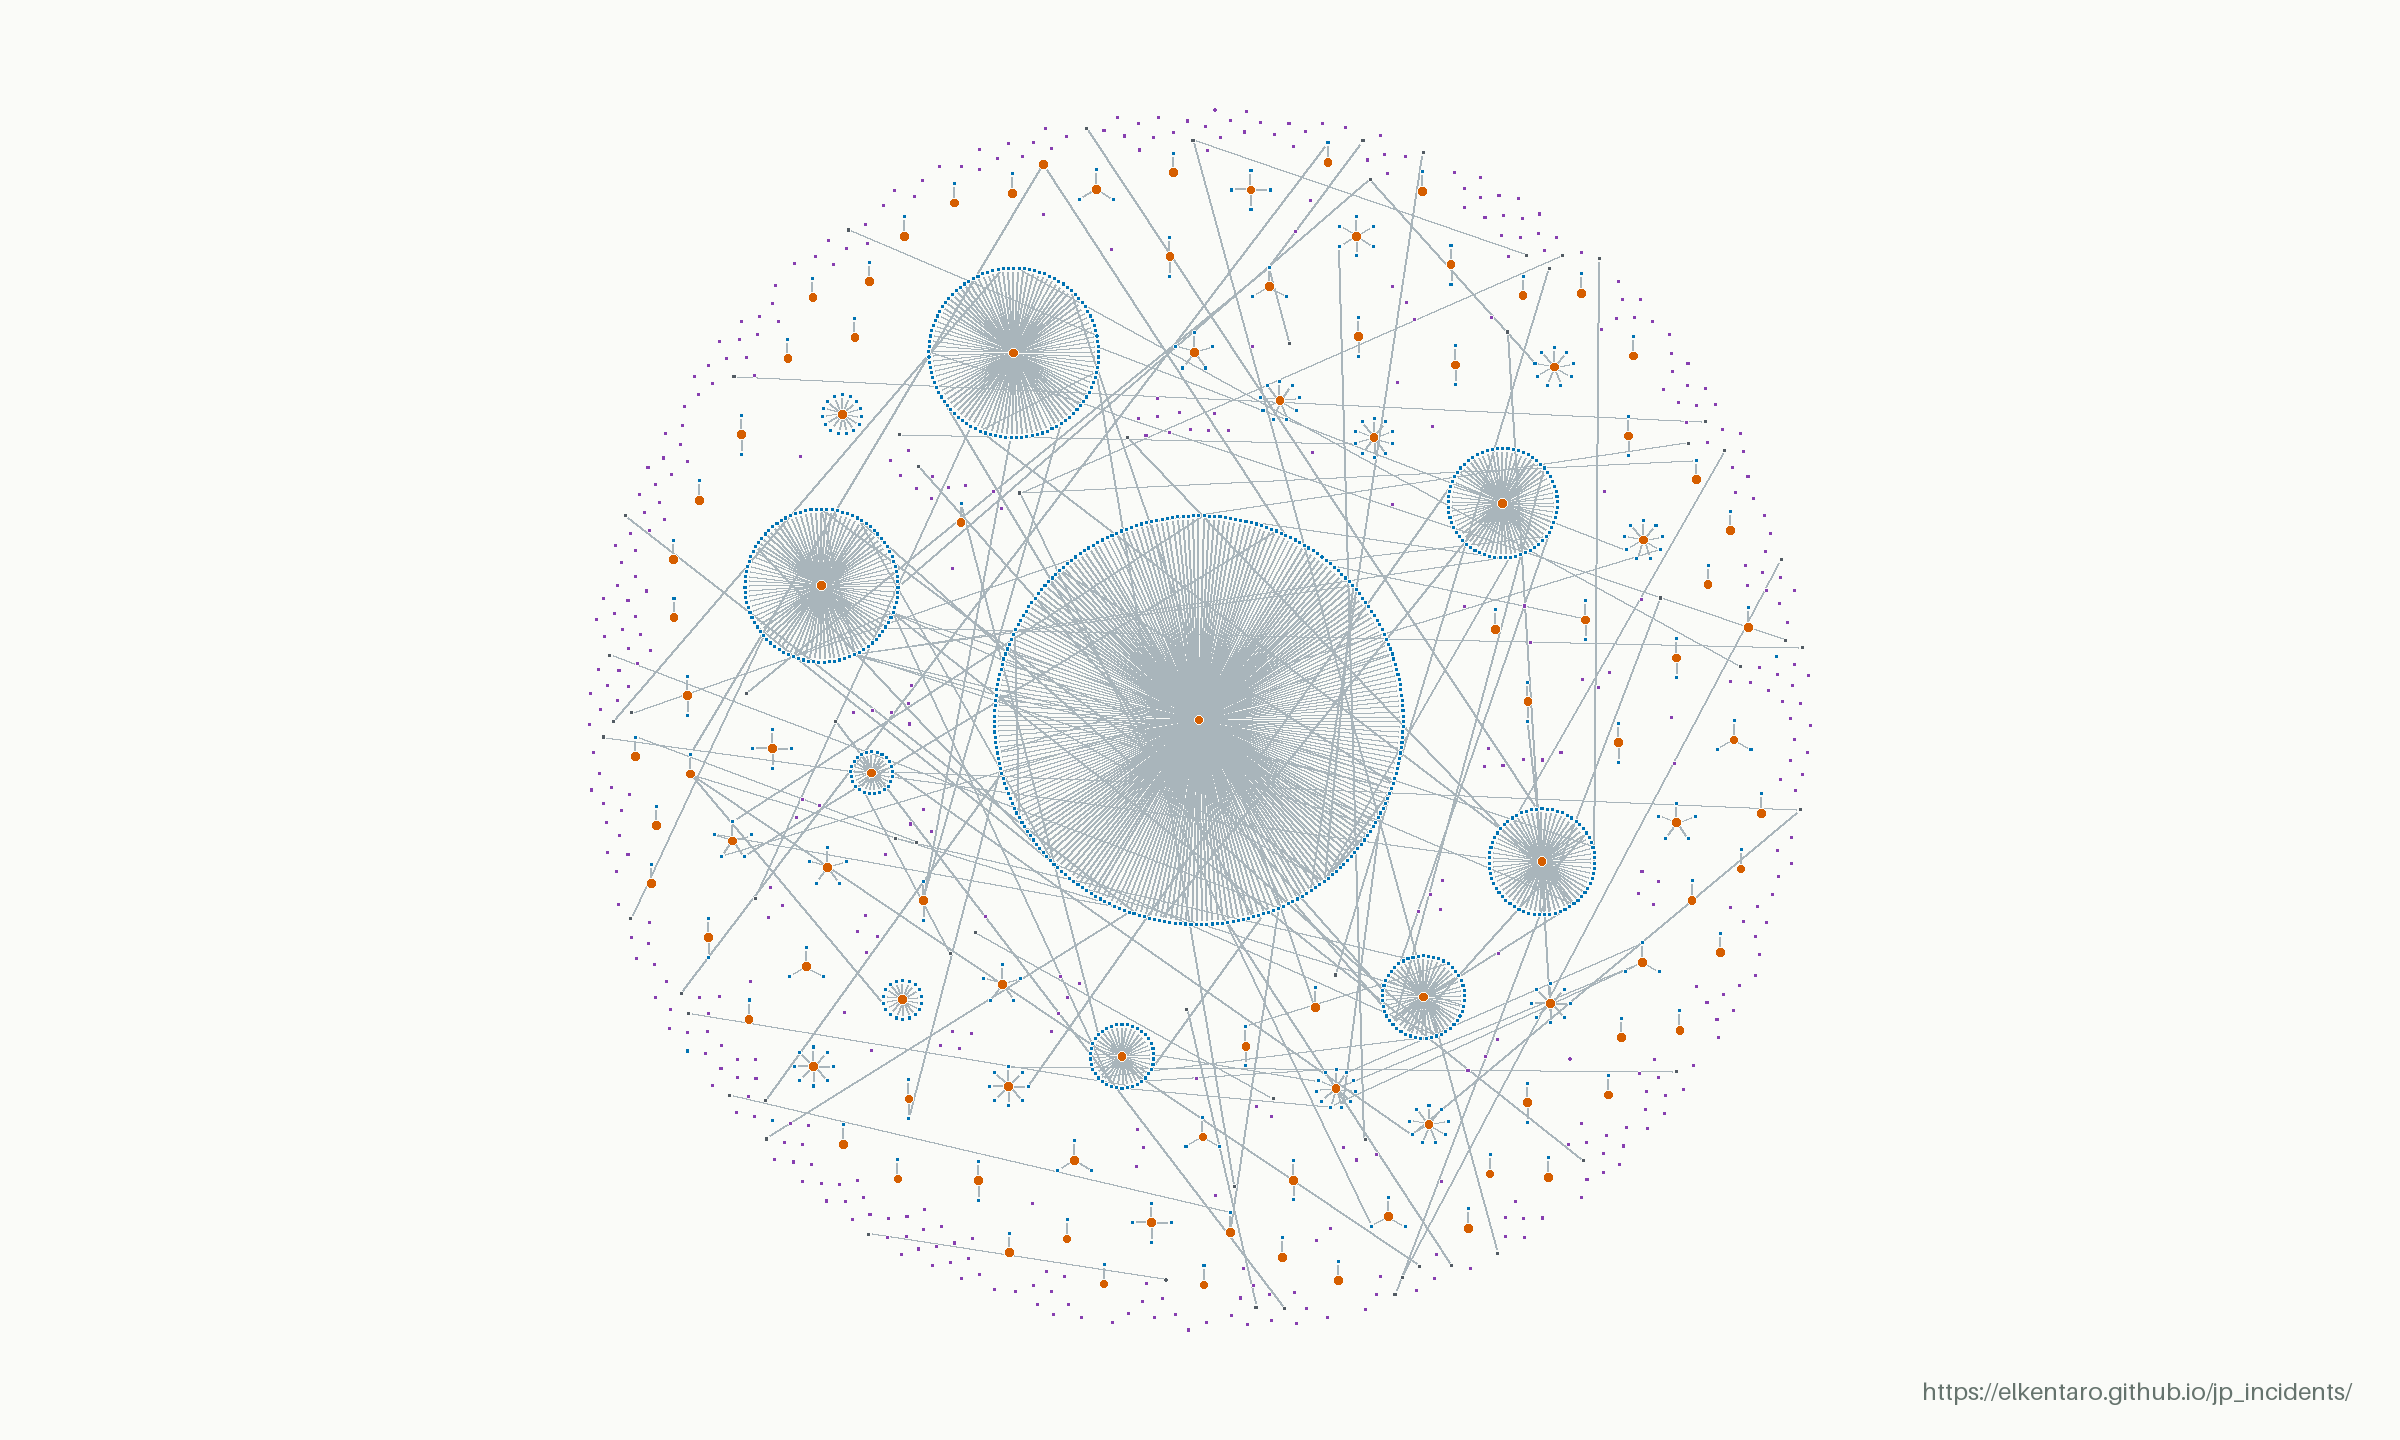
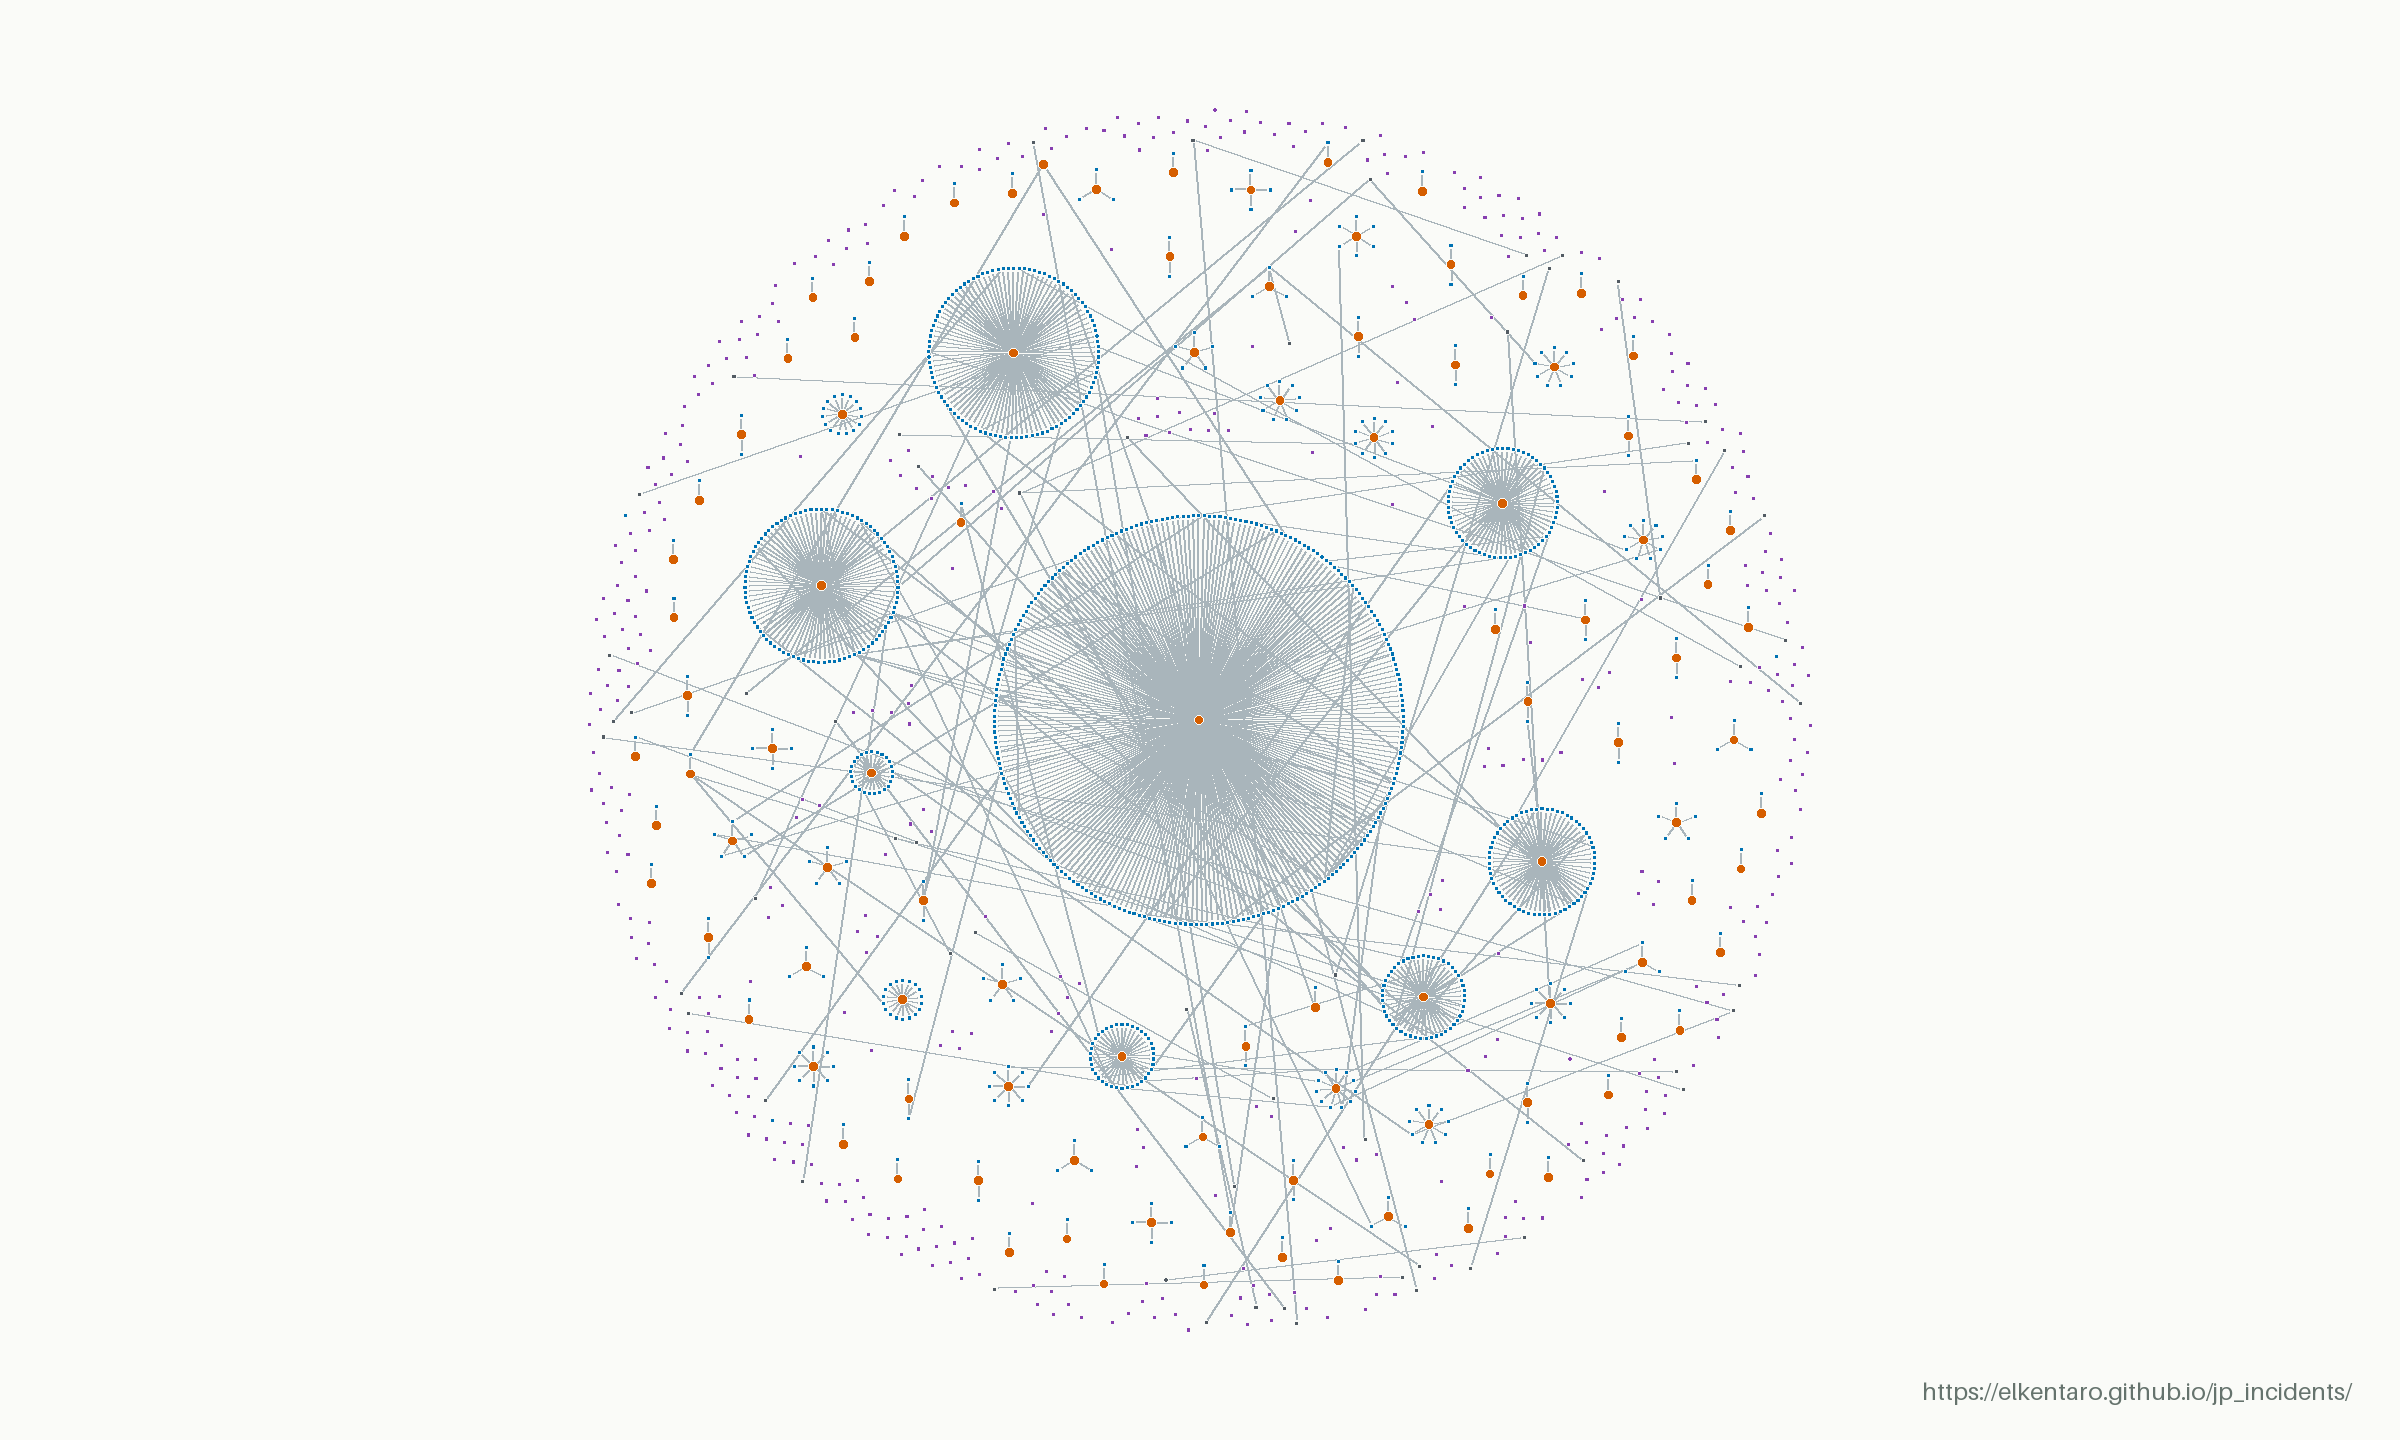
Update incident data (2026-11-22 11:17 UTC)

diff --git a/linkage.html b/linkage.html
@@ -32,15 +32,15 @@
     </section>
     <section class="direct-summary" aria-labelledby="direct-title">
       <dl class="direct-stats">
-        <div class="direct-total"><dt id="direct-title" data-copy="direct">Direct incidents</dt><dd id="direct-count">605</dd></div>
+        <div class="direct-total"><dt id="direct-title" data-copy="direct">Direct incidents</dt><dd id="direct-count">606</dd></div>
         <div><dt data-copy="directUpstream">Upstream incidents</dt><dd id="upstream-count">102</dd></div>
-        <div><dt data-copy="directStandalone">Standalone incidents</dt><dd id="standalone-count">503</dd></div>
+        <div><dt data-copy="directStandalone">Standalone incidents</dt><dd id="standalone-count">504</dd></div>
       </dl>
       <p class="direct-excluded"><strong id="downstream-count">942</strong> <span data-copy="directExcluded">downstream records excluded, including incidents with both roles.</span></p>
       <p class="direct-definition" data-copy="directDefinition">Direct incidents = upstream + standalone, based on recorded causal links. Standalone incidents have no upstream or downstream causal links, but may have other links, such as separate events at the same organization.</p>
     </section>
     <dl class="map-stats">
-      <div><dt data-copy="total">Incidents in snapshot</dt><dd>1547</dd></div>
+      <div><dt data-copy="total">Incidents in snapshot</dt><dd>1548</dd></div>
       <div><dt data-copy="linked">With recorded connections</dt><dd>1101</dd></div>
       <div><dt data-copy="links">Recorded connections</dt><dd>1062</dd></div>
       <div><dt data-copy="networks">Connected networks</dt><dd>86</dd></div>
@@ -50,13 +50,13 @@
         <img src="data/linkage-map.png" width="2400" height="1440" alt="Anonymized incident map. Orange upstream hubs connect to blue downstream incidents; purple unlinked incidents appear throughout the same map without connecting lines." data-copy-alt="alt">
       </div>
       <figcaption>
-        <div class="map-caption-meta"><span><span data-copy="updated">Last updated</span>: <time datetime="2026-11-22T02:15:52.537504+00:00">2026-11-22 02:15 UTC</time></span><a href="data/linkage-map.png" target="_blank" rel="noopener" data-copy="open">Open full-resolution image ↗</a></div>
+        <div class="map-caption-meta"><span><span data-copy="updated">Last updated</span>: <time datetime="2026-11-22T11:16:04.042744+00:00">2026-11-22 11:16 UTC</time></span><a href="data/linkage-map.png" target="_blank" rel="noopener" data-copy="open">Open full-resolution image ↗</a></div>
         <div class="map-key-section">
           <strong id="map-key-title" data-copy="key">Key</strong>
           <ul class="map-key" aria-labelledby="map-key-title">
             <li><span class="key-dot upstream" aria-hidden="true"></span><span data-copy="keyUpstream">Upstream</span></li>
             <li><span class="key-dot downstream" aria-hidden="true"></span><span data-copy="keyDownstream">Downstream</span></li>
-            <li><span class="key-dot standalone" aria-hidden="true"></span><span data-copy="keyStandalone">Unlinked</span><span>(446)</span></li>
+            <li><span class="key-dot standalone" aria-hidden="true"></span><span data-copy="keyStandalone">Unlinked</span><span>(447)</span></li>
             <li><span class="key-dot both" aria-hidden="true"></span><span data-copy="keyBoth">Both roles</span></li>
             <li><span class="key-dot related" aria-hidden="true"></span><span data-copy="keyRelated">Other related</span></li>
             <li><span class="key-line" aria-hidden="true"></span><span data-copy="keyRelationship">Recorded relationship</span></li>
@@ -69,7 +69,7 @@
       <section><h2 data-copy="readingTitle">Reading the map</h2><p data-copy="reading">Orange marks upstream incidents, blue downstream incidents, and purple unlinked incidents with no recorded connection. Teal marks incidents with both upstream and downstream roles; charcoal marks other related incidents. A missing connection does not establish that two incidents are unrelated.</p></section>
       <section><h2 data-copy="snapshotTitle">About this snapshot</h2><p data-copy="snapshot">The static image is refreshed when published incidents or relationships change, and at least every 24 hours during normal publication. Larger upstream clusters have extra spacing to keep their victims apart. Names, incident IDs, source links and incident dates are omitted; the connection pattern is retained. It is an overview of recorded relationships, not a complete map of cyber incidents in Japan.</p></section>
     </div>
-    <p class="map-source"><span data-copy="sourceUpdated">Source data updated</span>: <time datetime="2026-11-22T02:15:52+00:00">2026-11-22T02:15:52+00:00</time> · <a href="./" data-copy="browse">Browse the incident index</a></p>
+    <p class="map-source"><span data-copy="sourceUpdated">Source data updated</span>: <time datetime="2026-11-22T11:16:03+00:00">2026-11-22T11:16:03+00:00</time> · <a href="./" data-copy="browse">Browse the incident index</a></p>
   </main>
   <footer><div class="shell footer-inner"><p data-copy="footer">Public reports. Recorded relationships. An anonymized overview.</p><a href="./" data-copy="back">Back to incidents</a></div></footer>
   <script src="linkage.js?v=20261107-spacing" defer></script>
